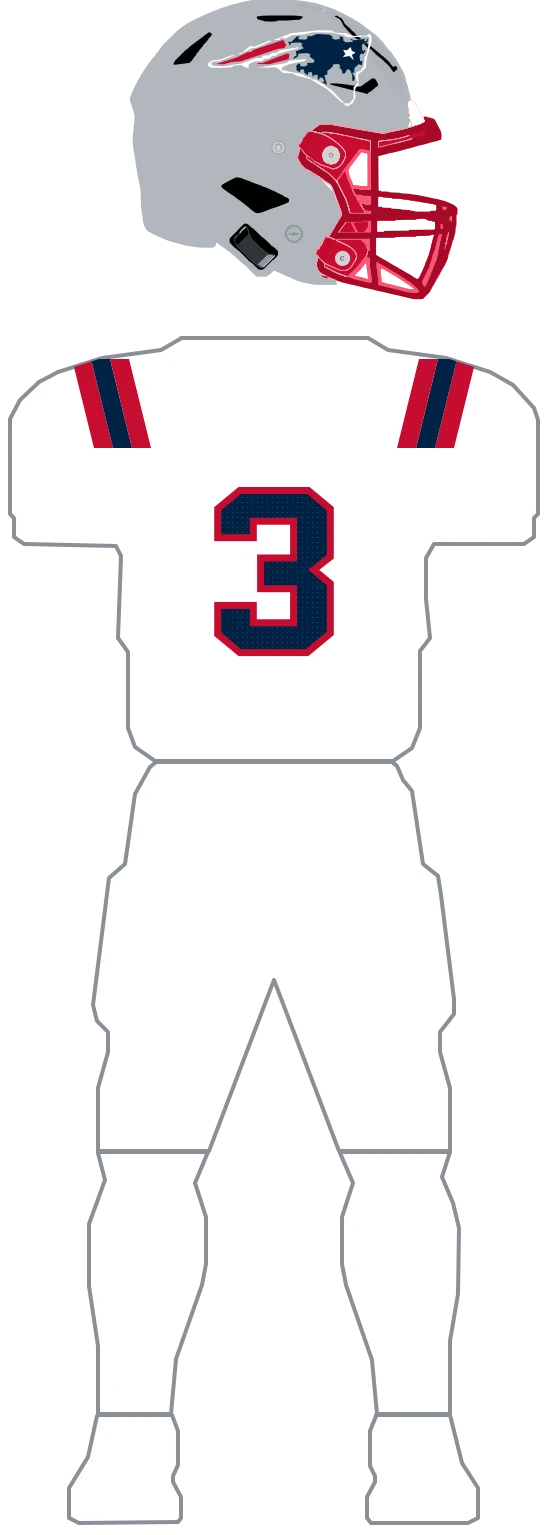
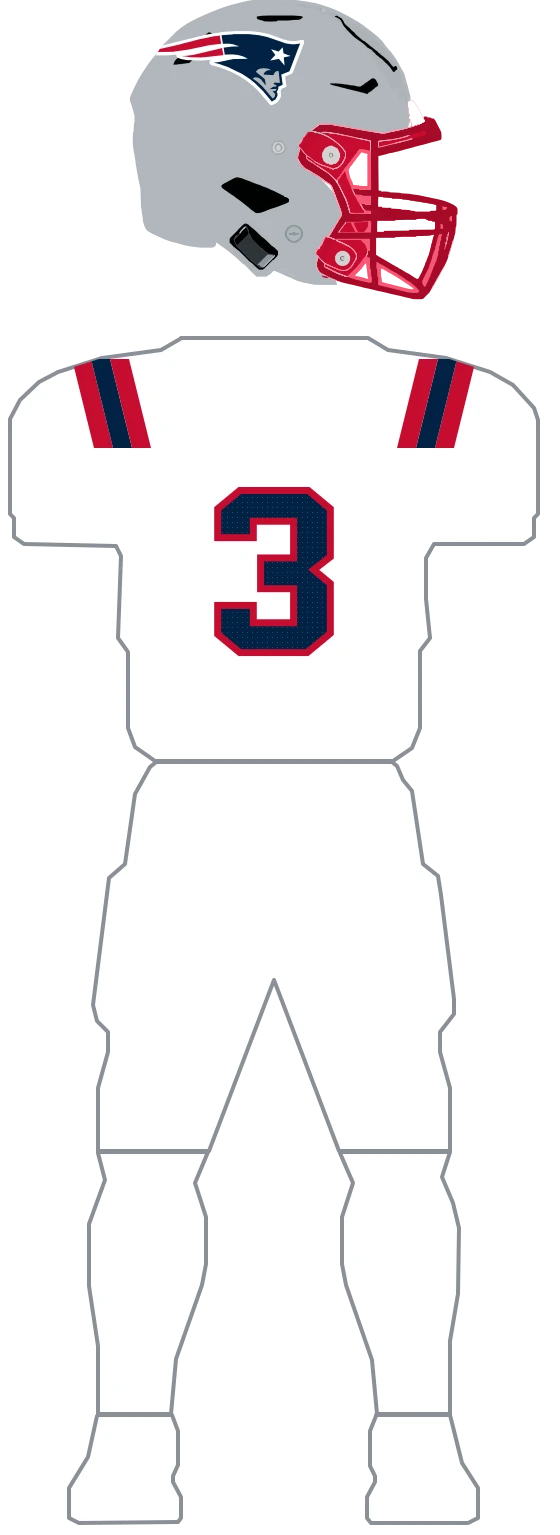
fix(uniforms): complete Patriots accuracy pass (#753)
* fix(uniforms): complete Patriots accuracy pass

* fix(uniforms): align Patriots helmet decal

* fix(uniforms): refine Patriots helmet decal placement

Changed region(s): [[0.2732, 0.0, 0.6679, 0.0612]]

diff --git a/lib/uniforms/teams/patriots.ts b/lib/uniforms/teams/patriots.ts
@@ -37,29 +37,23 @@ export const PATRIOTS_BANDS_RIGHT = [
   'M458,404 L439,404 L417,493 L436,493 Z',
 ];
 
-// Provenance: contour trace of the club's mark from the GUD composite — a reproduction
-// of a third-party mark, not original geometry. The mark is NON-FREE upstream
-// (Wikimedia `File:New England Patriots logo.svg`, fair use; trademarked). Licence audit: the vault’s
-// Decisions.md, 2026-09-03.
+// Provenance: contour trace of the approved standalone club mark, not the GUD composite. The mark is
+// NON-FREE upstream (Wikimedia `File:New England Patriots logo.svg`, fair use; trademarked). Licence
+// audit: the vault's Decisions.md, 2026-09-03. The generator in scripts/uniform-draw/patriots_mark.py
+// rasterizes that source at its true aspect, measures topology, and emits these paths mechanically.
+// The GUD composite supplies placement only; no source image or SVG is committed.
 //
-// The mark, traced from the home figure's shell (bbox x37-159, y285-399 in the reference) mapped
-// onto the raw helmet space at ~6.25x. Four plain-union fills in paint order: keyline, face, the
-// two red streamers, star.
-//
-// The WHITE LAYER IS ONE COMPONENT, not the white trace. Traced white returns four components, and
-// three of them are pieces of the keyline rather than the star — drawn on top they repaint the
-// keyline over the face and swallow the chin. Only the component at reference (115-120, 303-308) is
-// the star, and it is the only one this layer carries. The chin reading white is correct, not a
-// gap: the reference draws the jaw white too.
-//
-// This mark is one of the few here whose source is a GIF; it was normalized to RGB before
-// measuring. That matters for the predicates — the navy samples (3,18,51), so a blue-channel
-// threshold tuned on the PNG sheets (b > 60) misses it entirely and the face comes back empty.
+// Measured topology: one navy face component, two red streamer components, one silver face component,
+// one white keyline component, and one separate white star component; no enclosed holes. White is
+// split by component because the keyline and star share an ink color. All paths use the same source
+// art bbox so the component positions remain aligned in the raw helmet-space placement box.
 export const PATRIOTS_DECAL_KEYLINE_PATH =
-  'M511.9,135.8 L537.8,137.1 L544.5,140.5 L543.9,144.5 L549.3,147.1 L560.2,145.8 L557.5,141.8 L561.5,140.5 L566.3,143.1 L566.3,149.1 L571.0,152.5 L584.6,151.8 L585.3,149.8 L579.9,147.1 L581.2,145.8 L588.0,148.5 L609.1,145.8 L608.4,151.1 L613.8,149.1 L613.8,145.1 L615.9,146.5 L615.2,151.1 L611.8,154.5 L605.7,154.5 L603.6,159.2 L604.3,167.8 L606.4,169.8 L609.8,167.2 L610.4,170.5 L606.4,175.8 L600.9,175.8 L598.9,179.9 L599.6,190.5 L605.0,189.2 L603.0,198.6 L596.9,196.5 L588.7,203.9 L588.0,213.9 L583.9,213.2 L589.4,222.6 L588.0,229.3 L583.9,229.9 L583.9,218.6 L579.2,207.9 L573.8,206.6 L569.7,214.6 L564.2,215.9 L563.6,209.2 L558.1,202.6 L560.2,198.6 L554.7,195.9 L545.2,197.2 L545.2,201.2 L534.4,209.9 L534.4,217.2 L528.2,218.6 L533.7,237.3 L524.8,233.3 L525.5,230.6 L528.9,231.3 L524.2,223.3 L519.4,223.3 L517.4,227.9 L514.7,226.6 L514.7,217.9 L508.5,217.9 L505.1,222.6 L503.1,212.6 L496.3,212.6 L495.0,218.6 L488.2,213.9 L487.5,207.2 L480.7,207.2 L478.7,213.2 L471.2,206.6 L473.2,204.6 L471.2,200.6 L476.6,194.5 L480.7,195.9 L479.3,198.6 L482.0,200.6 L489.5,200.6 L494.3,197.9 L493.6,193.9 L506.5,193.2 L508.5,188.5 L498.4,181.2 L500.4,177.2 L495.0,174.5 L477.3,175.2 L474.6,181.9 L466.4,185.9 L466.4,182.5 L472.5,178.5 L471.2,170.5 L486.8,164.5 L482.0,158.5 L484.8,155.8 L479.3,153.1 L461.7,153.8 L459.6,160.5 L455.6,151.1 L461.7,151.8 L473.2,140.5 L479.3,140.5 L475.9,144.5 L478.0,146.5 L489.5,147.1 L494.3,145.1 L494.3,139.8 L501.7,140.5 L511.3,136.5 Z M511.9,128.4 L543.2,129.1 L548.6,133.1 L571.0,134.4 L584.6,139.8 L612.5,139.1 L617.2,135.8 L622.0,137.8 L622.7,151.1 L613.2,183.9 L611.1,203.9 L595.5,217.2 L596.9,238.6 L591.4,242.6 L589.4,249.3 L590.7,263.3 L584.6,274.7 L576.5,280.0 L569.7,279.4 L567.6,274.7 L562.2,272.7 L535.7,248.0 L499.7,225.9 L472.5,219.3 L465.1,214.6 L446.0,213.9 L431.8,202.6 L393.7,203.9 L449.4,194.5 L459.6,189.2 L492.9,185.9 L488.8,189.9 L456.9,196.5 L444.0,202.6 L442.6,207.9 L484.8,216.6 L491.6,221.3 L499.7,222.6 L503.1,226.6 L511.3,227.3 L543.2,248.6 L568.3,274.7 L578.5,274.7 L586.7,264.7 L586.7,242.6 L595.5,232.6 L592.1,228.6 L591.4,215.2 L593.5,211.9 L600.2,209.9 L607.0,199.9 L608.4,183.9 L613.2,174.5 L618.6,143.8 L615.2,141.1 L574.4,142.5 L565.6,137.8 L541.1,133.1 L506.5,132.4 L486.1,137.1 L463.7,138.5 L450.8,145.1 L442.6,143.1 L437.2,147.8 L425.7,148.5 L462.3,134.4 L511.3,129.1 Z M472.5,162.5 L479.3,163.8 L436.5,175.2 L430.4,179.9 L422.9,180.5 L418.2,185.2 L408.7,185.9 L403.2,190.5 L390.3,190.5 L380.2,194.5 L376.1,198.6 L377.4,203.9 L369.3,202.6 L362.5,197.9 L347.5,199.2 L342.8,202.6 L318.3,203.9 L301.4,203.2 L294.6,199.2 L295.9,194.5 L304.1,188.5 L319.7,187.2 L340.1,179.2 L350.9,177.9 L317.7,190.5 L304.8,191.2 L301.4,195.9 L306.1,199.9 L326.5,200.6 L364.5,194.5 L390.3,184.5 L401.2,183.9 L406.6,179.2 L417.5,178.5 L422.9,173.8 L433.1,173.2 L439.3,168.5 L471.9,163.2 Z M444.0,147.8 L447.4,149.1 L452.2,158.5 L448.1,164.5 L435.9,165.8 L359.8,191.2 L344.8,191.9 L324.4,197.2 L310.9,195.9 L351.6,183.2 L374.0,172.5 L381.5,171.8 L385.6,167.8 L443.3,148.5 Z M416.8,149.1 L422.9,149.8 L391.0,163.8 L382.9,164.5 L362.5,175.2 L353.7,175.8 L364.5,172.5 L380.8,159.2 L386.9,161.8 L416.2,149.8 Z M452.8,174.5 L459.0,176.5 L456.9,186.5 L418.9,196.5 L393.1,196.5 L395.1,193.9 L405.3,193.2 L452.2,175.2 Z';
+  'M345.3,130.1 L377.9,130.1 L394.3,131.6 L417.7,136.3 L447.6,147.2 L458.5,149.8 L469.3,150.3 L484.0,147.7 L487.3,148.8 L487.8,153.9 L465.0,213.1 L463.3,215.2 L449.7,221.4 L452.5,241.1 L442.7,245.8 L440.5,250.9 L441.6,254.6 L441.6,260.3 L439.4,266.0 L435.6,271.2 L429.6,275.8 L420.9,279.0 L396.4,250.4 L386.1,240.6 L372.0,229.2 L356.7,219.3 L341.5,211.5 L320.3,203.2 L303.4,198.6 L299.6,196.5 L298.0,192.3 L299.1,189.7 L301.3,188.2 L300.7,187.7 L281.1,189.2 L253.4,188.2 L241.4,186.1 L234.9,183.5 L232.7,181.4 L232.2,177.3 L215.3,178.8 L193.5,178.8 L170.7,175.7 L165.3,172.6 L164.2,170.5 L165.3,166.4 L171.2,163.8 L182.7,162.8 L205.5,158.6 L291.5,137.3 L326.8,131.6 L344.8,130.6 Z';
 export const PATRIOTS_DECAL_FACE_PATH =
-  'M511.9,135.8 L537.8,137.1 L544.5,140.5 L543.9,144.5 L549.3,147.1 L560.2,145.8 L557.5,141.8 L561.5,140.5 L566.3,143.1 L566.3,149.1 L571.0,152.5 L584.6,151.8 L585.3,149.8 L579.9,147.1 L581.2,145.8 L588.0,148.5 L609.1,145.8 L608.4,151.1 L613.8,149.1 L613.8,145.1 L615.9,146.5 L615.2,151.1 L611.8,154.5 L605.7,154.5 L603.6,159.2 L604.3,167.8 L606.4,169.8 L609.8,167.2 L610.4,170.5 L606.4,175.8 L600.9,175.8 L598.9,179.9 L599.6,190.5 L605.0,189.2 L603.0,198.6 L596.9,196.5 L588.7,203.9 L588.0,213.9 L583.9,213.2 L589.4,222.6 L588.0,229.3 L583.9,229.9 L583.9,218.6 L579.2,207.9 L573.8,206.6 L569.7,214.6 L564.2,215.9 L563.6,209.2 L558.1,202.6 L560.2,198.6 L554.7,195.9 L545.2,197.2 L545.2,201.2 L534.4,209.9 L534.4,217.2 L528.2,218.6 L533.7,237.3 L524.8,233.3 L525.5,230.6 L528.9,231.3 L524.2,223.3 L519.4,223.3 L517.4,227.9 L514.7,226.6 L514.7,217.9 L508.5,217.9 L505.1,222.6 L503.1,212.6 L496.3,212.6 L495.0,218.6 L488.2,213.9 L487.5,207.2 L480.7,207.2 L478.7,213.2 L471.2,206.6 L473.2,204.6 L471.2,200.6 L476.6,194.5 L480.7,195.9 L479.3,198.6 L482.0,200.6 L489.5,200.6 L494.3,197.9 L493.6,193.9 L506.5,193.2 L508.5,188.5 L498.4,181.2 L500.4,177.2 L495.0,174.5 L477.3,175.2 L474.6,181.9 L466.4,185.9 L466.4,182.5 L472.5,178.5 L471.2,170.5 L486.8,164.5 L482.0,158.5 L484.8,155.8 L479.3,153.1 L461.7,153.8 L459.6,160.5 L455.6,151.1 L461.7,151.8 L473.2,140.5 L479.3,140.5 L475.9,144.5 L478.0,146.5 L489.5,147.1 L494.3,145.1 L494.3,139.8 L501.7,140.5 L511.3,136.5 Z';
+  'M345.9,136.3 L377.4,136.3 L397.5,138.4 L413.8,142.0 L451.9,155.0 L462.8,156.5 L469.9,156.5 L479.7,155.0 L458.5,210.5 L442.1,217.2 L444.9,237.5 L436.1,241.6 L436.1,245.8 L432.9,252.0 L434.5,255.6 L434.5,259.2 L430.7,266.5 L423.1,271.2 L406.2,250.9 L389.4,234.3 L379.0,226.0 L364.3,216.2 L334.4,201.7 L315.9,195.4 L306.7,193.4 L315.9,192.3 L345.9,186.1 L375.2,185.6 L366.0,180.9 L354.6,177.8 L344.2,176.8 L329.0,177.3 L326.8,163.3 L343.1,161.2 L357.8,160.7 L345.3,156.5 L338.2,155.5 L325.2,155.5 L322.5,138.4 L345.3,136.8 Z';
 export const PATRIOTS_DECAL_STREAMERS_PATH =
-  'M444.0,147.8 L447.4,149.1 L452.2,158.5 L448.1,164.5 L435.9,165.8 L359.8,191.2 L344.8,191.9 L324.4,197.2 L310.9,195.9 L351.6,183.2 L374.0,172.5 L381.5,171.8 L385.6,167.8 L443.3,148.5 Z M452.8,174.5 L459.0,176.5 L456.9,186.5 L418.9,196.5 L393.1,196.5 L395.1,193.9 L405.3,193.2 L452.2,175.2 Z';
+  'M318.1,138.9 L319.2,139.4 L321.9,155.5 L299.6,158.1 L257.7,166.9 L225.1,171.6 L189.7,172.1 L171.8,170.0 L199.5,165.9 L231.6,158.6 L279.5,146.2 L307.8,140.5 L317.6,139.4 Z M323.6,163.8 L326.3,178.3 L282.2,183.0 L259.9,182.5 L241.4,179.9 L250.1,179.9 L265.9,177.8 L323.0,164.3 Z';
+export const PATRIOTS_DECAL_SILVER_PATH =
+  'M405.1,204.3 L416.0,205.3 L421.5,208.4 L416.0,208.4 L411.7,210.0 L406.8,215.2 L406.8,217.2 L426.4,218.3 L428.5,213.6 L431.3,211.0 L434.0,210.0 L436.7,210.5 L439.4,233.8 L428.5,233.3 L426.4,235.9 L432.3,238.5 L432.3,241.1 L425.8,241.6 L418.7,246.3 L432.9,245.8 L430.2,249.9 L424.7,249.9 L430.2,256.7 L428.5,262.4 L424.7,265.0 L404.6,241.1 L394.3,231.8 L385.0,225.0 L389.4,222.4 L396.4,223.5 L401.3,226.6 L409.5,236.9 L410.6,238.0 L411.1,237.5 L409.0,226.0 L391.0,211.5 L395.4,206.9 L401.3,204.8 L404.6,204.8 Z';
 export const PATRIOTS_DECAL_STAR_PATH =
-  'M580.5,161.8 L583.3,169.8 L590.7,173.2 L583.3,177.9 L587.3,188.5 L577.8,179.9 L564.9,182.5 L570.4,175.8 L565.6,167.8 L573.8,168.5 L579.9,162.5 Z';
+  'M444.9,162.8 L446.5,174.7 L460.6,179.9 L448.1,182.5 L447.0,183.5 L448.7,199.1 L437.2,185.6 L419.8,189.2 L430.2,177.8 L421.5,166.4 L436.7,171.1 L444.3,163.3 Z';

diff --git a/lib/uniforms/teams/patriots.parts.ts b/lib/uniforms/teams/patriots.parts.ts
@@ -22,6 +22,7 @@ import {
   PATRIOTS_BANDS_RIGHT,
   PATRIOTS_DECAL_FACE_PATH,
   PATRIOTS_DECAL_KEYLINE_PATH,
+  PATRIOTS_DECAL_SILVER_PATH,
   PATRIOTS_DECAL_STAR_PATH,
   PATRIOTS_DECAL_STREAMERS_PATH,
 } from './patriots';
@@ -60,6 +61,7 @@ function decal(): PartLayer[] {
       ['patriots-decal-keyline', PATRIOTS_DECAL_KEYLINE_PATH, 'white'],
       ['patriots-decal-face', PATRIOTS_DECAL_FACE_PATH, 'navy'],
       ['patriots-decal-streamers', PATRIOTS_DECAL_STREAMERS_PATH, 'red'],
+      ['patriots-decal-silver', PATRIOTS_DECAL_SILVER_PATH, 'silver'],
       ['patriots-decal-star', PATRIOTS_DECAL_STAR_PATH, 'white'],
     ] as [string, string, string][]
   ).map(([id, d, fill]) => ({
@@ -86,10 +88,10 @@ const HELMET_SILVER: UniformPart = { base: 'silver', facemask: 'red', layers: de
 // which no figure on the sheet draws. Its white-shell figure in the boxed group wears a white cage.
 const HELMET_PAT: UniformPart = { base: 'patRed', facemask: 'white', layers: [] };
 
-// Rivalries shell (H4). The kit has no figure of its own on the sheet — the flat definition called
-// it inferred and this migration does not change that — so there is no cage to source and the
-// shell stays on GENERIC_UNIFORM_STYLE's shared neutral rather than borrowing the red one.
-const HELMET_RIVALRIES: UniformPart = { base: 'rivalNavy', layers: decal() };
+// Rivalries shell (H4). This is the modern Patriots navy-shell treatment, including the red cage;
+// the kit has no figure of its own on the sheet, so its helmet mark and placement are inherited from
+// the current-season modern figures rather than from the throwback group.
+const HELMET_RIVALRIES: UniformPart = { base: 'rivalNavy', facemask: 'red', layers: decal() };
 
 // Home jersey (J1): navy body, banded red/white/red, white numerals.
 const JERSEY_NAVY: UniformPart = {
@@ -125,6 +127,7 @@ const PANTS_NAVY: UniformPart = { base: 'navy', layers: [] };
 const PANTS_WHITE: UniformPart = { base: 'white', layers: [] };
 const PANTS_PAT: UniformPart = { base: 'patRed', layers: [] };
 const PANTS_RIVALRIES: UniformPart = { base: 'rivalNavy', layers: [] };
+const PANTS_SILVER: UniformPart = { base: 'silver', layers: [] };
 
 export const PATRIOTS_PARTS: TeamPartsDefinition = {
   teamId: 'patriots',
@@ -151,12 +154,22 @@ export const PATRIOTS_PARTS: TeamPartsDefinition = {
     pat: JERSEY_PAT,
     rivalries: JERSEY_RIVALRIES,
   },
-  pants: { navy: PANTS_NAVY, white: PANTS_WHITE, pat: PANTS_PAT, rivalries: PANTS_RIVALRIES },
+  pants: {
+    navy: PANTS_NAVY,
+    white: PANTS_WHITE,
+    pat: PANTS_PAT,
+    rivalries: PANTS_RIVALRIES,
+    silver: PANTS_SILVER,
+  },
   kits: {
-    home: { helmet: 'navy', jersey: 'navy', pants: 'navy' },
-    away: { helmet: 'silver', jersey: 'white', pants: 'white' },
-    'pat-patriot': { helmet: 'pat', jersey: 'pat', pants: 'pat' },
-    'rivalries-2025': { helmet: 'rivalries', jersey: 'rivalries', pants: 'rivalries' },
+    home: { helmet: 'navy', jersey: 'navy', pants: ['navy', 'silver'] },
+    away: { helmet: 'silver', jersey: 'white', pants: ['white', 'navy'] },
+    'pat-patriot': { helmet: 'pat', jersey: 'pat', pants: ['pat', 'white'] },
+    'rivalries-2025': {
+      helmet: 'rivalries',
+      jersey: 'rivalries',
+      pants: ['rivalries', 'silver'],
+    },
   },
 };
 

diff --git a/scripts/uniform-draw/patriots_mark.py b/scripts/uniform-draw/patriots_mark.py
@@ -1,0 +1,110 @@
+"""Regenerates the New England Patriots helmet mark in ``lib/uniforms/teams/patriots.ts``.
+
+    python3 scripts/uniform-draw/patriots_mark.py            # print the paths
+    python3 scripts/uniform-draw/patriots_mark.py --check    # verify patriots.ts matches
+
+This is a contour trace of the approved standalone helmet-mark SVG, not the GUD composite. The
+upstream mark is the non-free, trademarked ``File:New England Patriots logo.svg`` on Wikipedia;
+the fair-use and provenance decision is recorded in the depth vault's Decisions.md (2026-09-03).
+The SVG is used only as the linework source and is never committed. The GUD 2025 composite is
+used only for placement measurements: on the home helmet the visible mark spans approximately
+x=37..159 and y=285..399, or 11.5% left, 70.1% wide, 14.6% top, and 20.2% high against the
+helmet shell. Transferred to the raw mannequin shell, that is the retained placement box
+``Box(162.0, 128.0, 328.0, 152.0)``; its 2.16 aspect intentionally follows the shell's
+foreshortened side view rather than squeezing the flat SVG to its own 2.03 aspect.
+
+TOPOLOGY, measured before tracing from a black-backed raster of the SVG: one 8-connected navy
+face component, two red streamer components, one silver face component, one white keyline
+component, and one separate white star component. There are no enclosed holes. The selection trap
+is that the white keyline and star share an ink colour, while the silver face is easy to mistake
+for shell or facemask grey when selecting from the GUD composite; the generator selects each by
+component in the approved SVG instead. All five colour layers are traced against one shared art
+bbox so their relative positions survive emission.
+
+The SVG is too wide for qlmanage's square-thumbnail behavior, so the generator uses ImageMagick
+to rasterize it at its true aspect on a black background before drawkit measures components. The
+black background prevents transparent/white confusion and is cropped away before tracing. The
+generated paths were compared numerically against the same normalized source bbox at 5% row
+intervals and visually at helmet-thumbnail scale; ``drawkit.main`` owns ``--check``.
+"""
+
+from __future__ import annotations
+
+import subprocess
+import sys
+import tempfile
+from pathlib import Path
+
+from PIL import Image
+
+sys.path.insert(0, str(Path(__file__).resolve().parent))
+
+from drawkit import Box, components, crop_to_art, main, mask, trace  # noqa: E402
+
+REF = Path.home() / 'Documents/GitHubProjects/nfl-uniform-refs/patriots/patriots-mark.svg'
+MODULE = Path(__file__).resolve().parents[2] / 'lib' / 'uniforms' / 'teams' / 'patriots.ts'
+BOX = Box(162.0, 128.0, 328.0, 152.0)
+MIN_REGION = 100
+EPS = 1.2
+
+
+def render_reference():
+    """Rasterize the wide SVG at true aspect, avoiding qlmanage's square crop."""
+    with tempfile.TemporaryDirectory() as tmp:
+        rendered = Path(tmp) / 'patriots-mark.png'
+        subprocess.run(
+            ['magick', '-background', 'black', '-density', '300', str(REF), str(rendered)],
+            check=True,
+            capture_output=True,
+        )
+        return crop_to_art(Image.open(rendered).convert('RGB'), bg=10)
+
+
+def predicate(name):
+    if name == 'navy':
+        return lambda c: c[2] > 30 and c[0] < 40 and c[1] < 90
+    if name == 'red':
+        return lambda c: c[0] > 120 and c[1] < 100 and c[2] < 110
+    if name == 'silver':
+        return lambda c: 90 < c[0] < 220 and 90 < c[1] < 220 and 90 < c[2] < 220 and max(c) - min(c) < 24
+    if name == 'white':
+        return lambda c: min(c) > 180
+    raise ValueError(name)
+
+
+def component_mask(im, name, index=0):
+    m, w, h = mask(im, predicate(name))
+    regions = components(m, w, h, MIN_REGION)
+    cells = set(regions[index])
+    return [[1 if (x, y) in cells else 0 for x in range(w)] for y in range(h)], w, h
+
+
+def build():
+    im = render_reference()
+    _, w, h = mask(im, predicate('navy'))
+    white, w, h = mask(im, predicate('white'))
+    white_regions = components(white, w, h, MIN_REGION)
+    # The keyline is the large white region; the smaller enclosed component is the star.
+    keyline = set(white_regions[0])
+    star = set(white_regions[1])
+    keyline_mask = [[1 if (x, y) in keyline else 0 for x in range(w)] for y in range(h)]
+    star_mask = [[1 if (x, y) in star else 0 for x in range(w)] for y in range(h)]
+    red, _, _ = mask(im, predicate('red'))
+    red_cells = {cell for region in components(red, w, h, MIN_REGION) for cell in region}
+    red_mask = [[1 if (x, y) in red_cells else 0 for x in range(w)] for y in range(h)]
+
+    def emit(component):
+        return trace(component[0], component[1], component[2], BOX, eps=EPS, minsize=MIN_REGION)
+
+    return {
+        'PATRIOTS_DECAL_KEYLINE_PATH': emit((keyline_mask, w, h)),
+        'PATRIOTS_DECAL_FACE_PATH': emit(component_mask(im, 'navy')),
+        # Preserve both streamer components in one shared source bbox.
+        'PATRIOTS_DECAL_STREAMERS_PATH': emit((red_mask, w, h)),
+        'PATRIOTS_DECAL_SILVER_PATH': emit(component_mask(im, 'silver')),
+        'PATRIOTS_DECAL_STAR_PATH': emit((star_mask, w, h)),
+    }
+
+
+if __name__ == '__main__':
+    main(build, MODULE)
